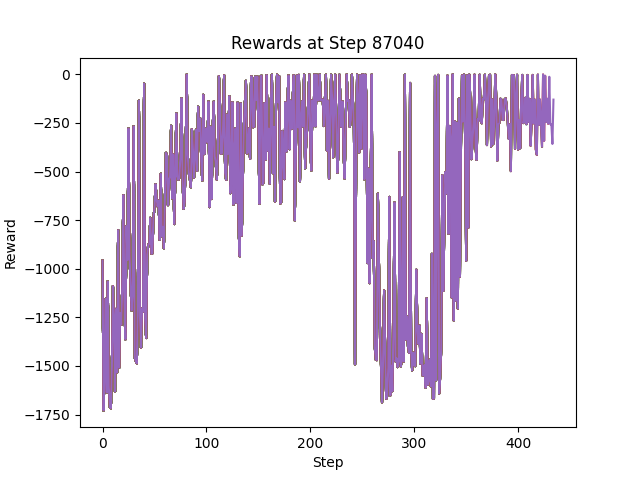
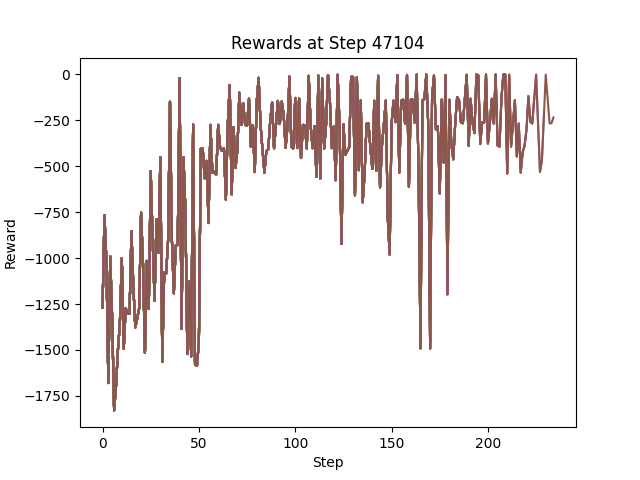
add eval/training

diff --git a/actor-critic/ddpg.py b/actor-critic/ddpg.py
@@ -53,11 +53,14 @@ class Actor(nn.Module):
 
         return mu, std
 
-    def get_action(self, state):
+    def get_action(self, state, exploit=False):
         mu, std = self.forward(state)
         # sample noise from zero-mean Gaussian
         dist, noise = Normal(mu, std), Normal(0, 1)
-        action = torch.clamp(dist.rsample() + noise.sample(), self.action_low, self.action_high)
+        if exploit:
+            action = torch.clamp(dist.sample(), self.action_low, self.action_high)
+        else:
+            action = torch.clamp(dist.rsample() + noise.sample(), self.action_low, self.action_high)
         
         return action
 
@@ -97,9 +100,9 @@ class ReplayBuffer():
 
 
 class DDPGAgent():
-    def __init__(self, env_name, seed):
+    def __init__(self, env_name, seed, render_mode='rgb_array'):
         # initialize env
-        self.env = gym.make(env_name)
+        self.env = gym.make(env_name, render_mode=render_mode)
         obs_dim = self.env.observation_space.shape[0]
         action_dim = self.env.action_space.shape[0]
         self.action_low = torch.from_numpy(self.env.action_space.low)
@@ -233,18 +236,25 @@ def train(agent):
         agent.save()
 
         # early stop for Pendulum-v1
-        if np.mean(total_rewards[-100:]) > -150:
+        if np.mean(total_rewards[-100:]) > -300:
             break
         
 
+def eval(agent):
+    state = agent.env.reset()[0]
+    reward = []
+    for _ in range(1000):
+        action = agent.actor.get_action(torch.from_numpy(state), exploit=True)
 
+        next_s, r, terminated, truncated, info = agent.env.step(action.detach().numpy())
 
+        state = next_s
+        reward.append(r)
+        if terminated or truncated:
+            state = agent.env.reset()[0]
+            print(f'Reward: {np.sum(reward)}')
+            reward = []
 
-
-
-
-
-        
 
 
 
@@ -253,8 +263,9 @@ def train(agent):
 
 if __name__ == '__main__':
     env_name = 'Pendulum-v1'
-    agent = DDPGAgent(env_name, seed=10)
-    train(agent)
+    agent = DDPGAgent(env_name, seed=10, render_mode='human')
+    # train(agent)
+    eval(agent)
 
 
 
